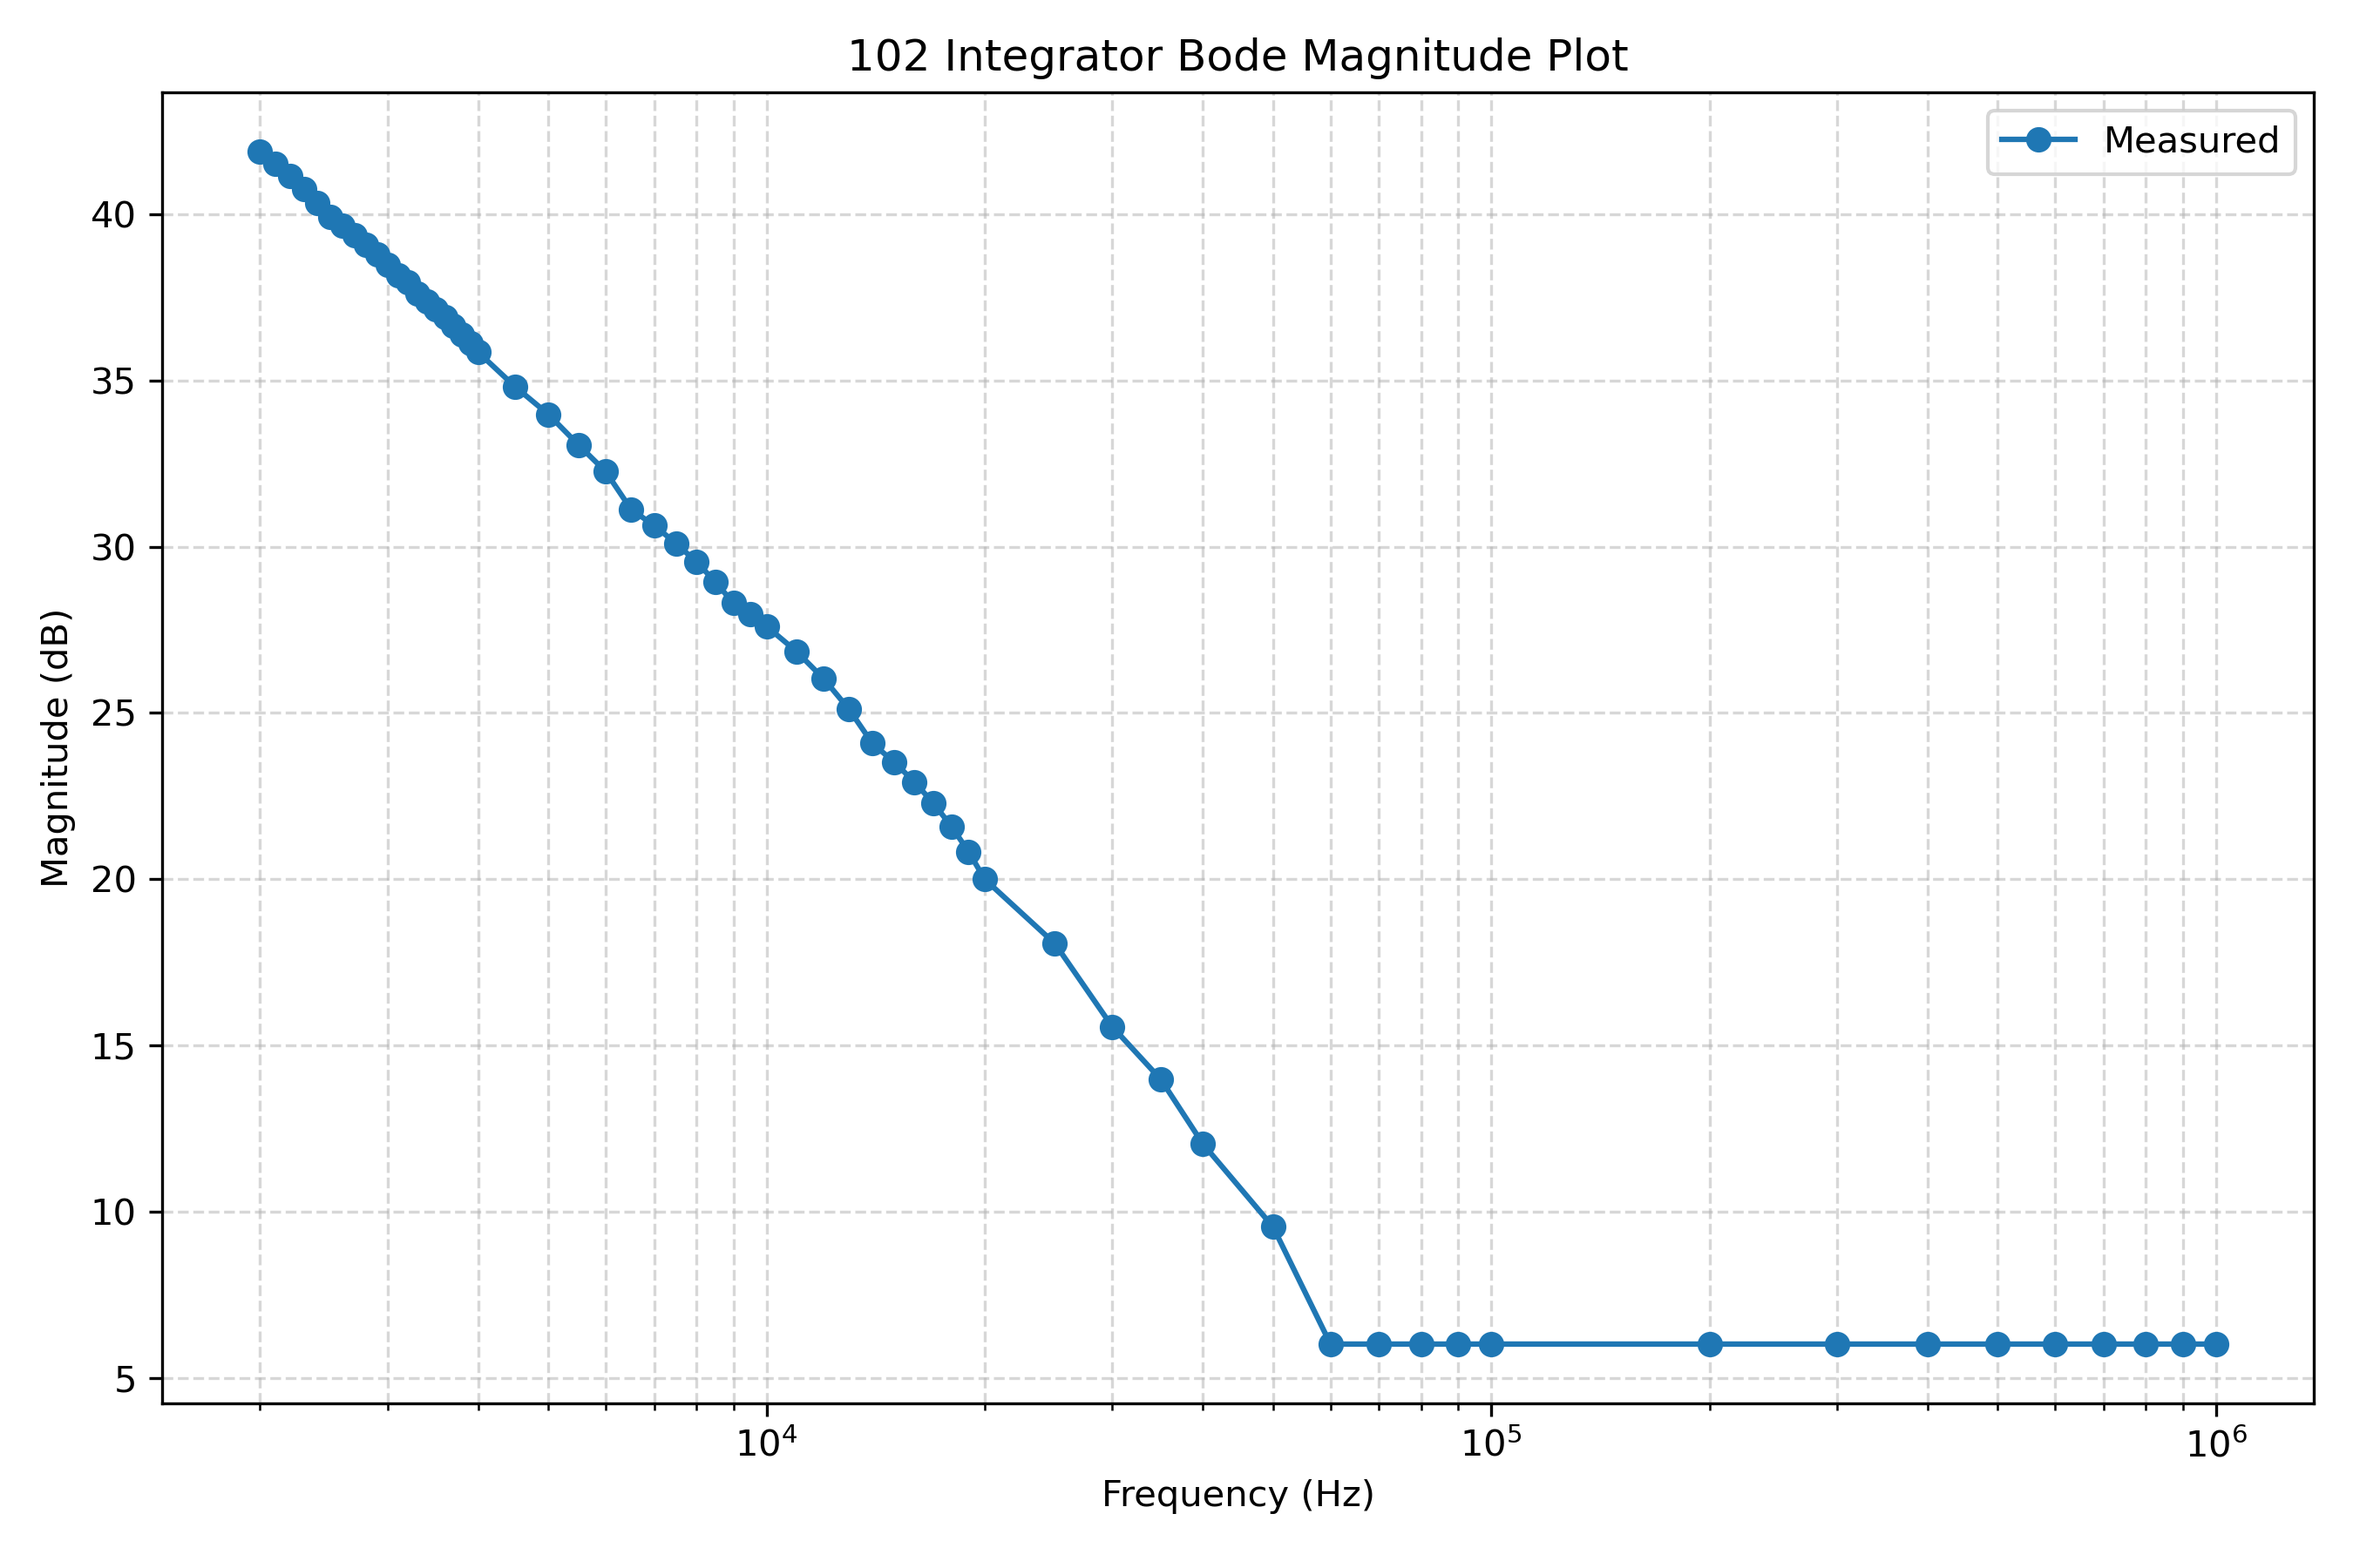
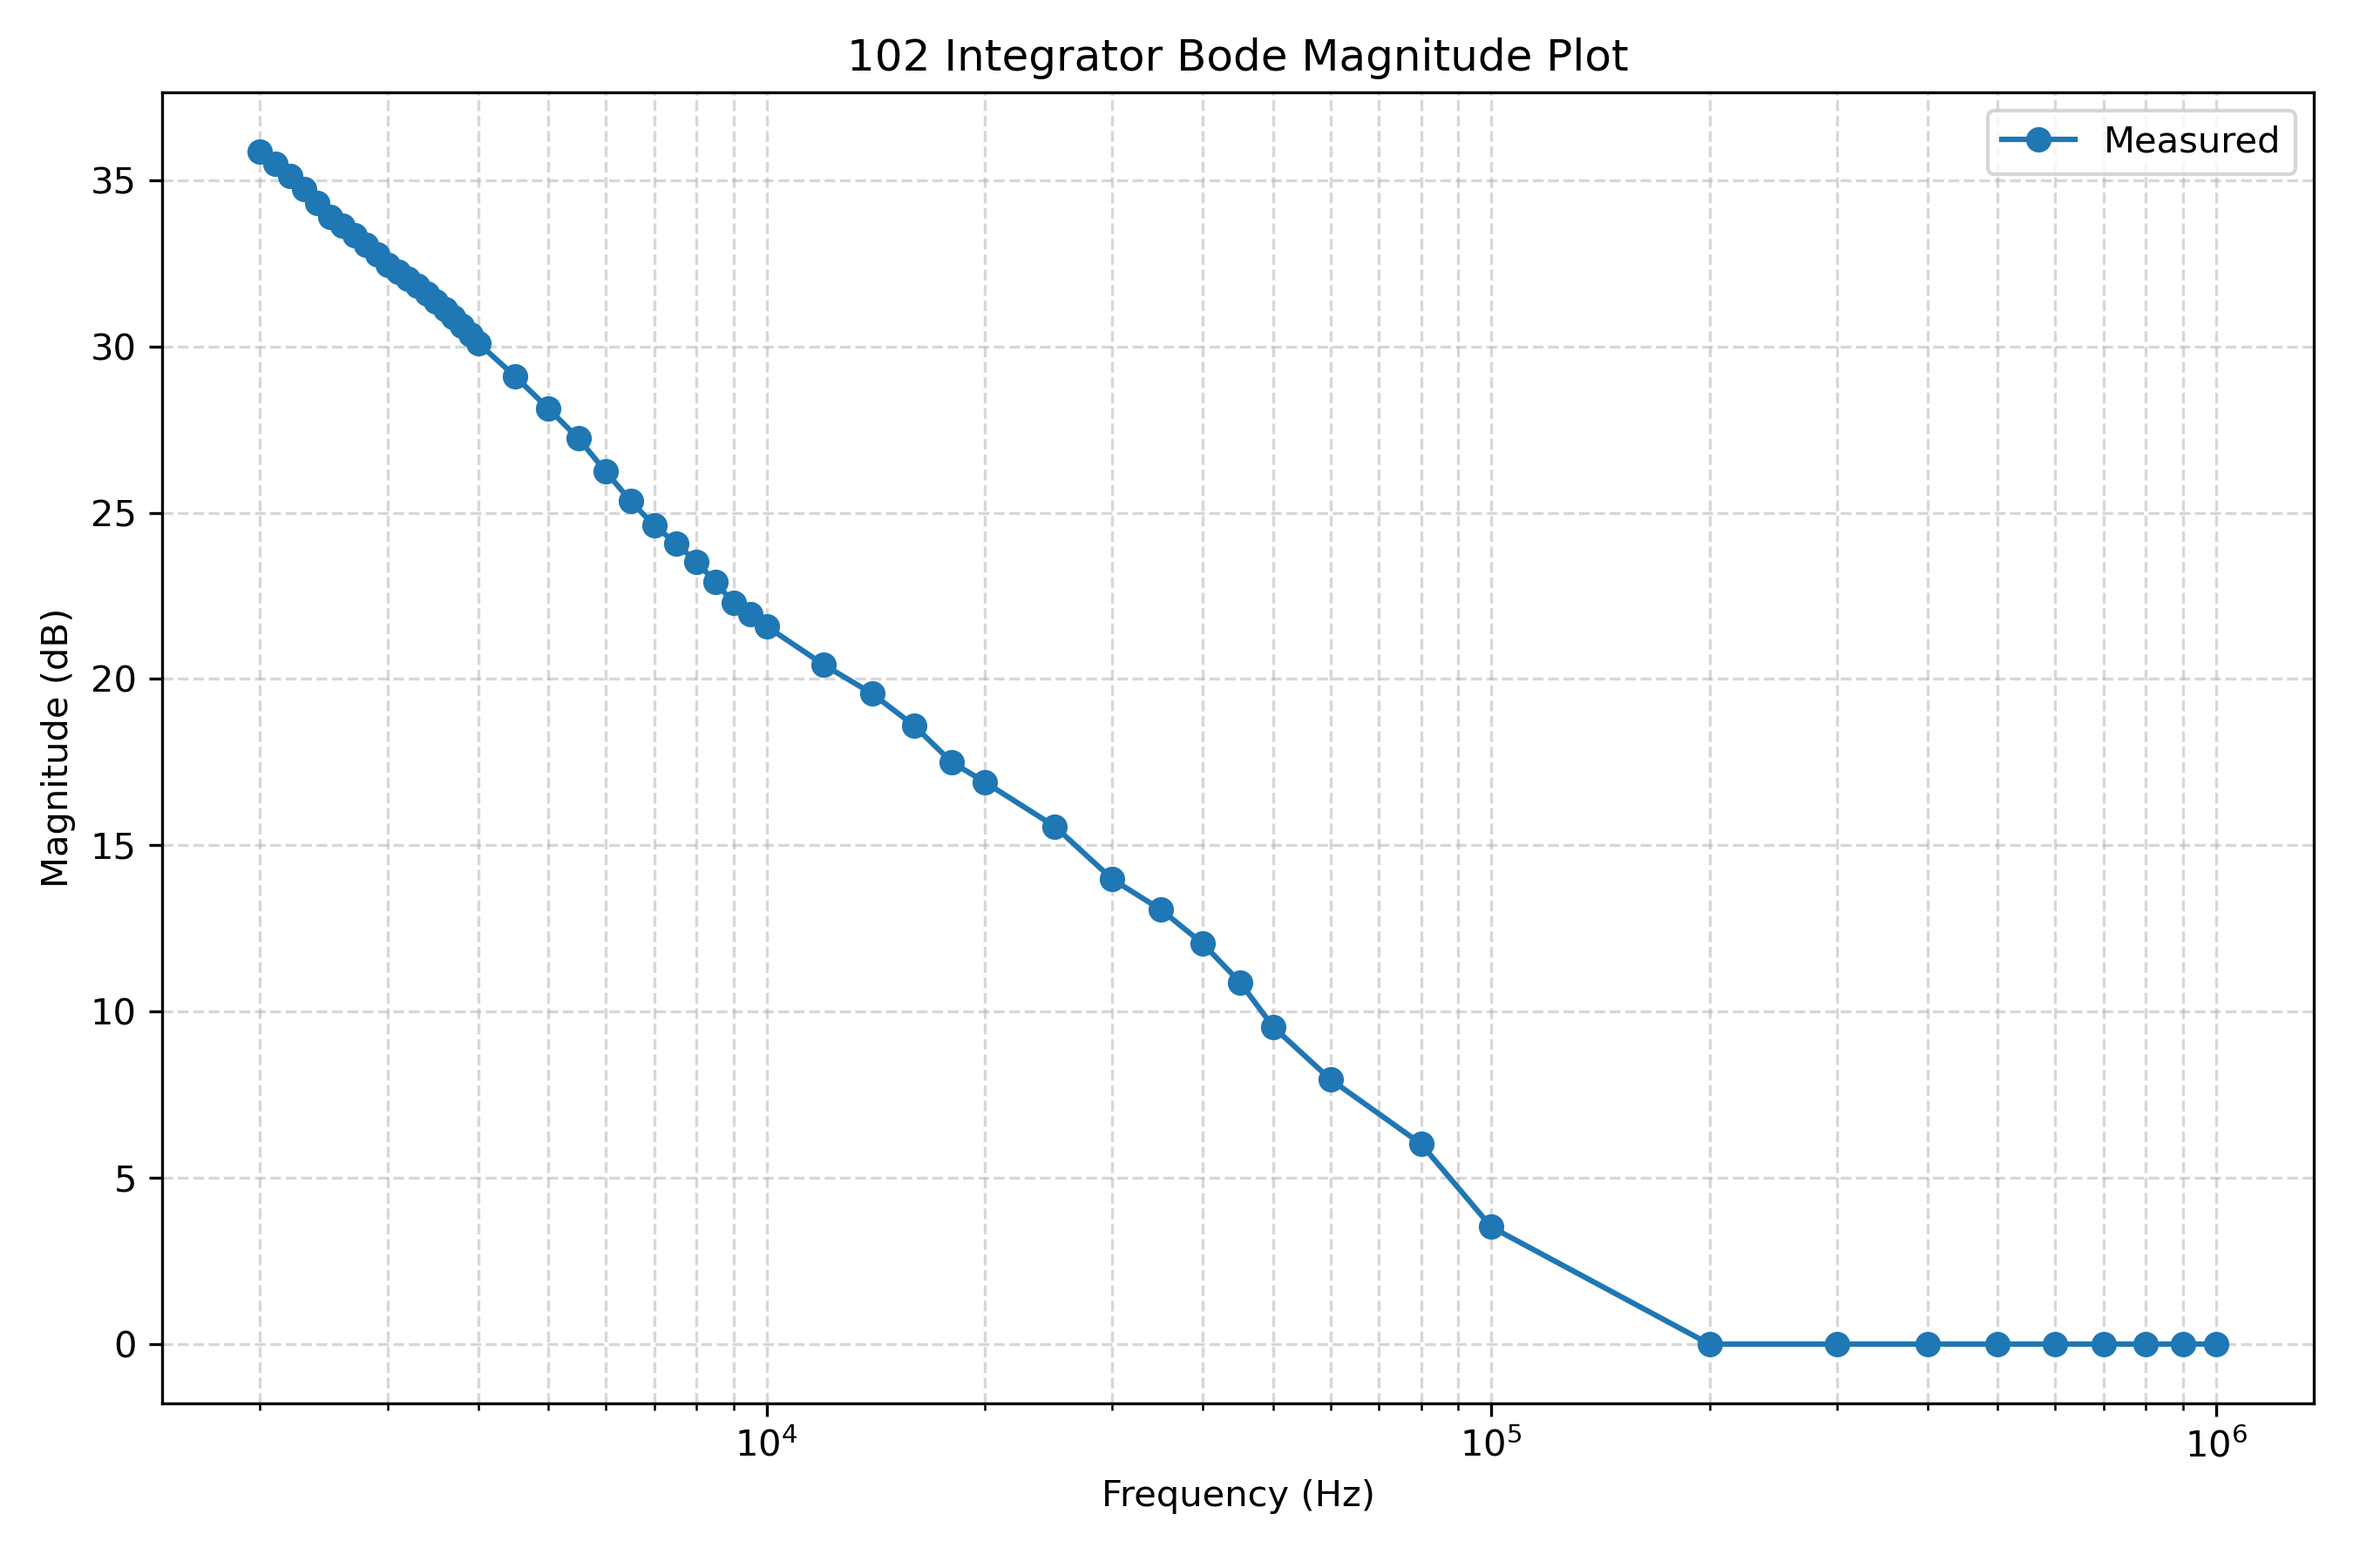
2026-10-20T15:02:22+00:00

diff --git a/2/post-lab/bode_plot.py b/2/post-lab/bode_plot.py
@@ -17,7 +17,7 @@ def foo(vin_pp, freq, vout_pp, title, filename):
     plt.savefig(filename, dpi=300)
 
 
-vin_pp = 0.2
+vin_pp = 0.4
 
 freq1 = np.concatenate(
     [
@@ -39,21 +39,21 @@ vout_pp1 = np.array(
         17.4,
         14,
         11.8,
-        10.2,
+        10.4,
         9.2,
-        8.4,
+        8.2,
         7.4,  # 1k
-        7.0,
-        6.6,
-        6.2,
-        5.8,
-        5.4,
+        6.8,
+        6.4,
+        6.0,
+        5.6,
         5.2,
         5.0,
         4.8,
         4.6,
-        4.4,  # 2k
-        4.0,  # 2.2k
+        4.4,
+        4.2,  # 2k
+        3.8,  # 2.2k
         3.6,
         3.4,
         3.2,
@@ -85,9 +85,10 @@ freq2 = np.concatenate(
     [
         np.arange(2000, 4000, 100),
         np.arange(4000, 10000, 500),
-        np.arange(10000, 20000, 1000),
-        np.arange(20000, 40000, 5000),
-        np.arange(40000, 100000, 10000),
+        np.arange(10000, 20000, 2000),
+        np.arange(20000, 50000, 5000),
+        np.arange(50000, 60000, 10000),
+        np.arange(60000, 100000, 20000),
         np.arange(100000, 1100000, 100000),
     ]
 )
@@ -105,48 +106,42 @@ vout_pp2 = np.array(
         18.0,
         17.4,
         16.8,  # 3k
-        16.2,
-        15.8,
+        16.4,
+        16.0,
+        15.6,
         15.2,
         14.8,
         14.4,
-        14,
+        14.0,
         13.6,
         13.2,
-        12.8,
-        12.4,  # 4k
-        11,  # 4.5k
-        10,  # 5k
-        9,
+        12.8,  # 4k
+        11.4,  # 4.5k
+        10.2,
+        9.2,
         8.2,
-        7.2,
+        7.4,
         6.8,
         6.4,
-        6,
+        6.0,
         5.6,
         5.2,
         5.0,
         4.8,  # 10k
-        4.4,  # 11k
-        4.0,
-        3.6,
-        3.2,
+        4.2,
+        3.8,
+        3.4,
         3.0,
-        2.8,
-        2.6,
-        2.4,
-        2.2,
-        2.0,  # 20k
-        1.6,  # 25k
-        1.2,
-        1.0,
-        0.8,  # 40k
-        0.6,  # 50k
-        0.4,
-        0.4,
-        0.4,
-        0.4,
-        0.4,  # 100k
+        2.8,  # 20k
+        2.4,  # 25k
+        2.0,
+        1.8,
+        1.6,
+        1.4,
+        1.2,  # 50k
+        1.0,  # 60k
+        0.8,  # 80k
+        0.6,  # 100k
         0.4,
         0.4,
         0.4,
